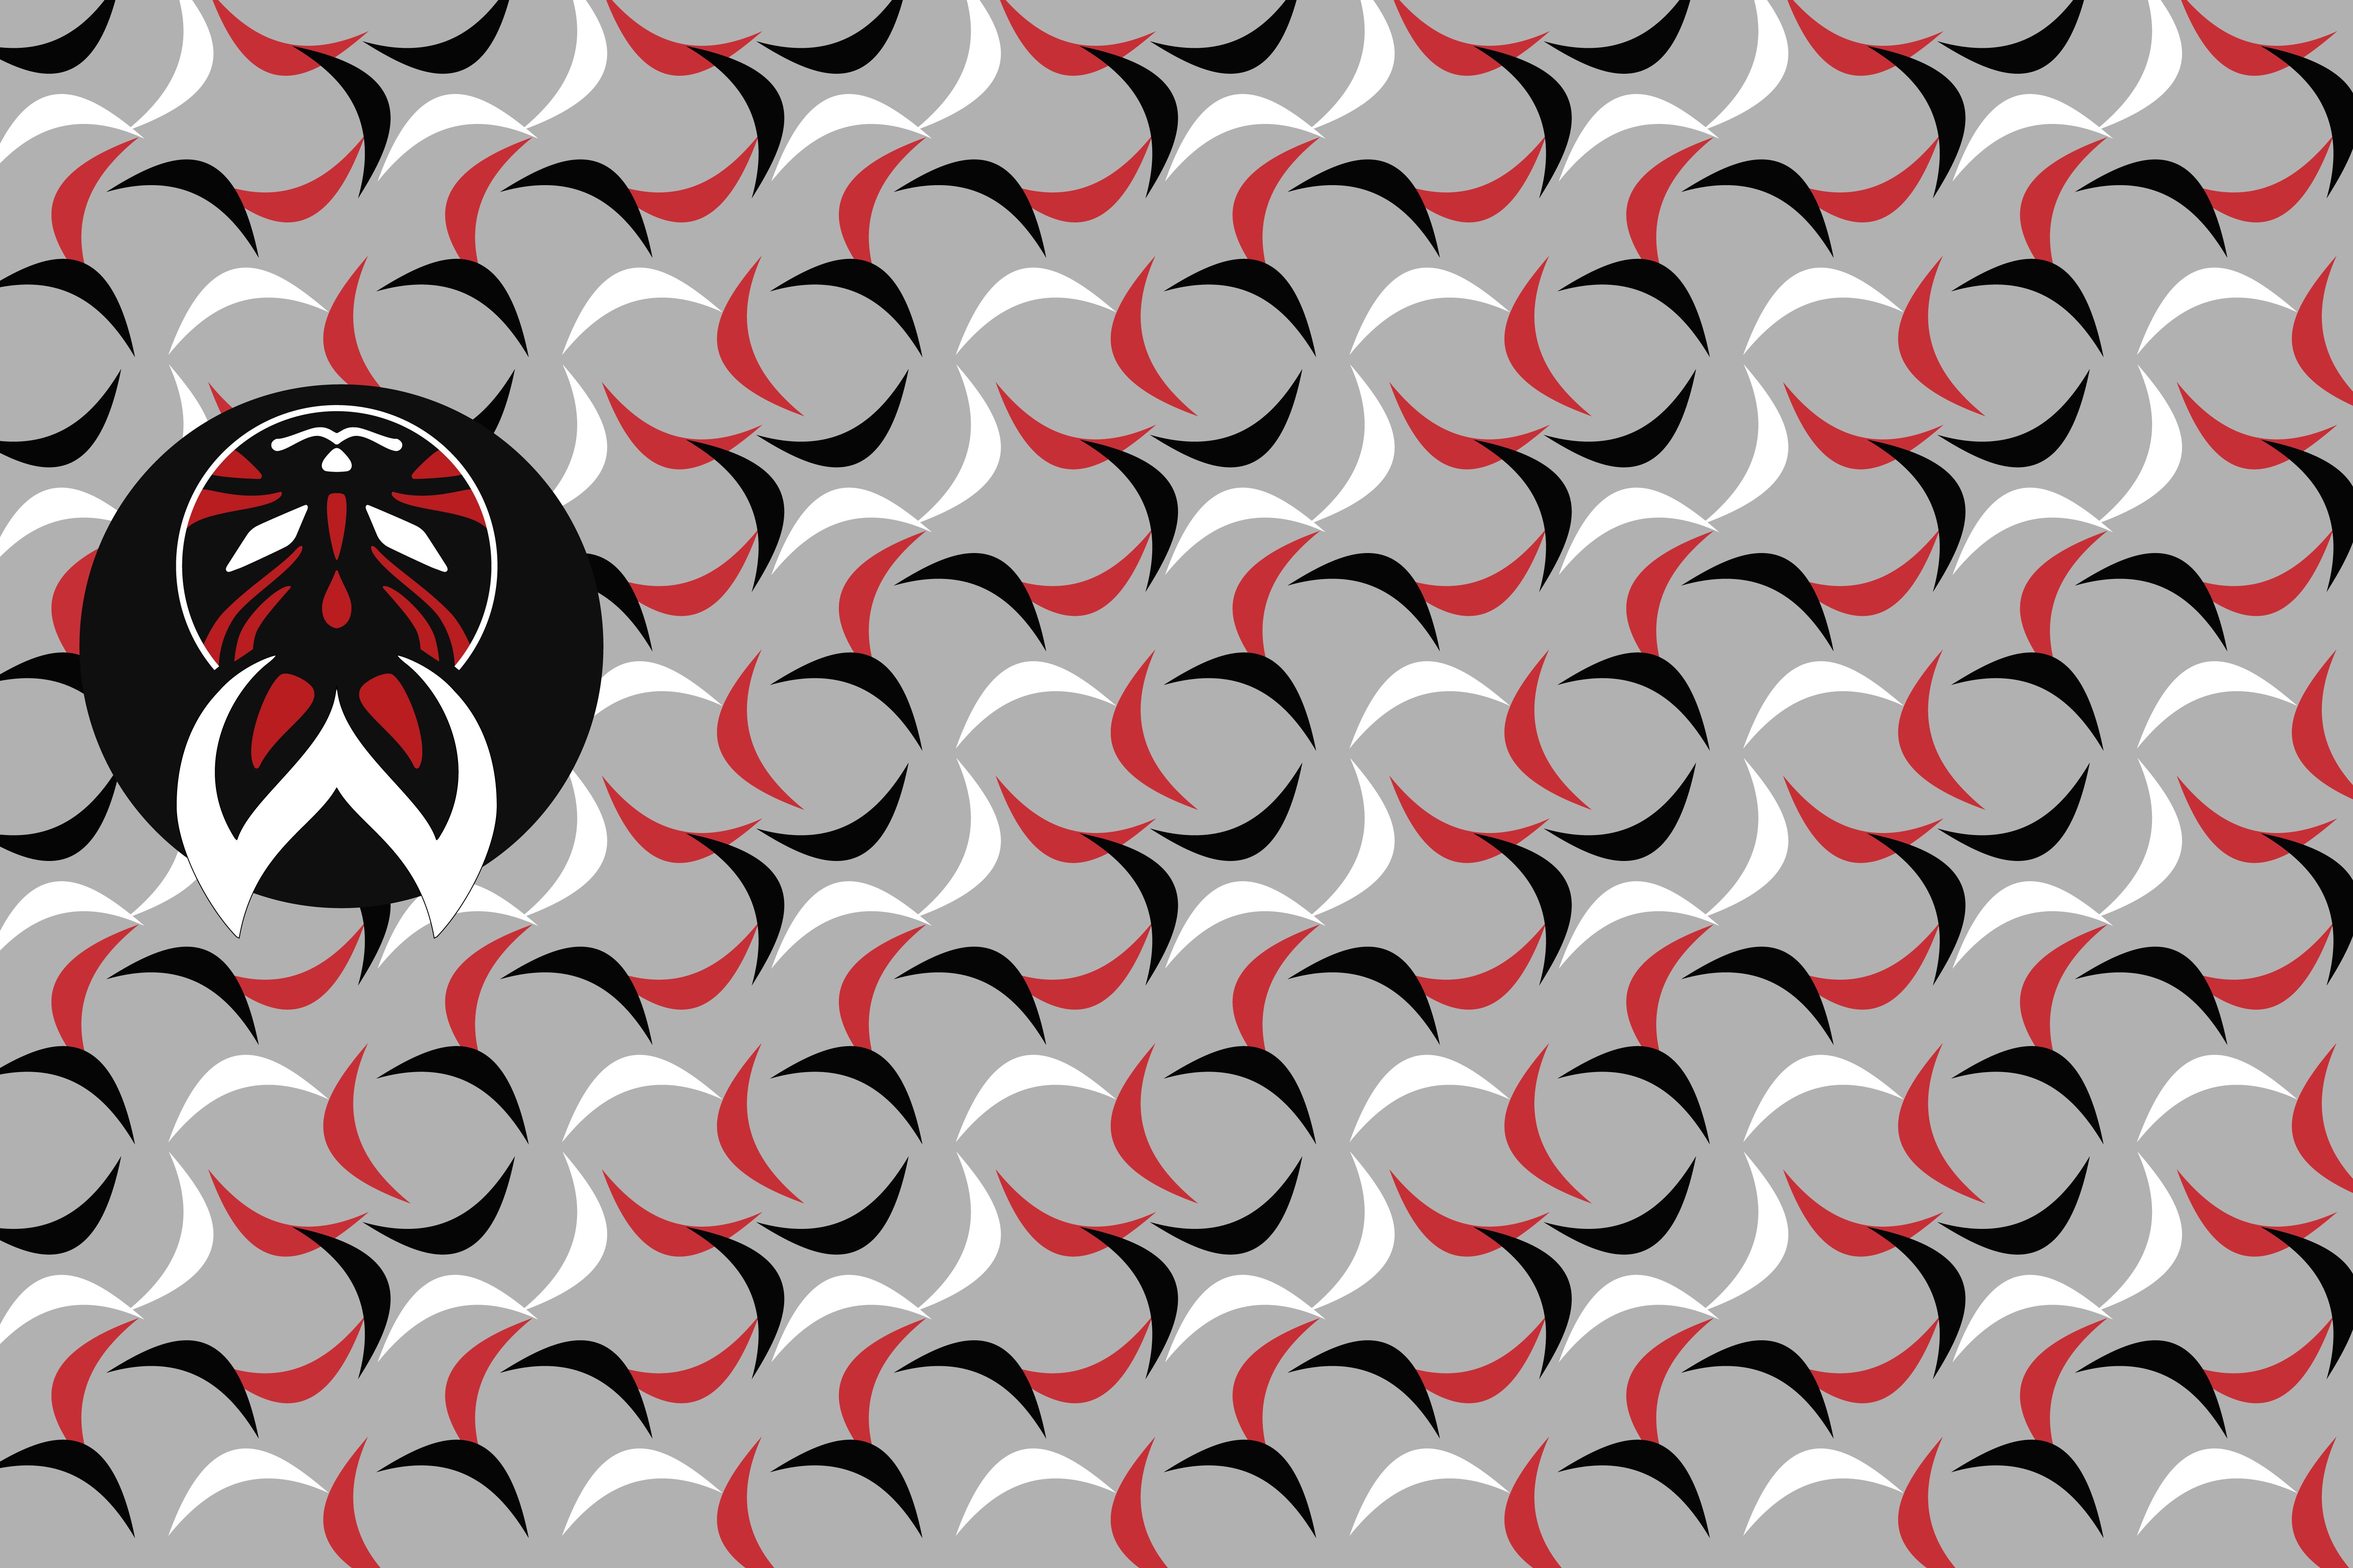
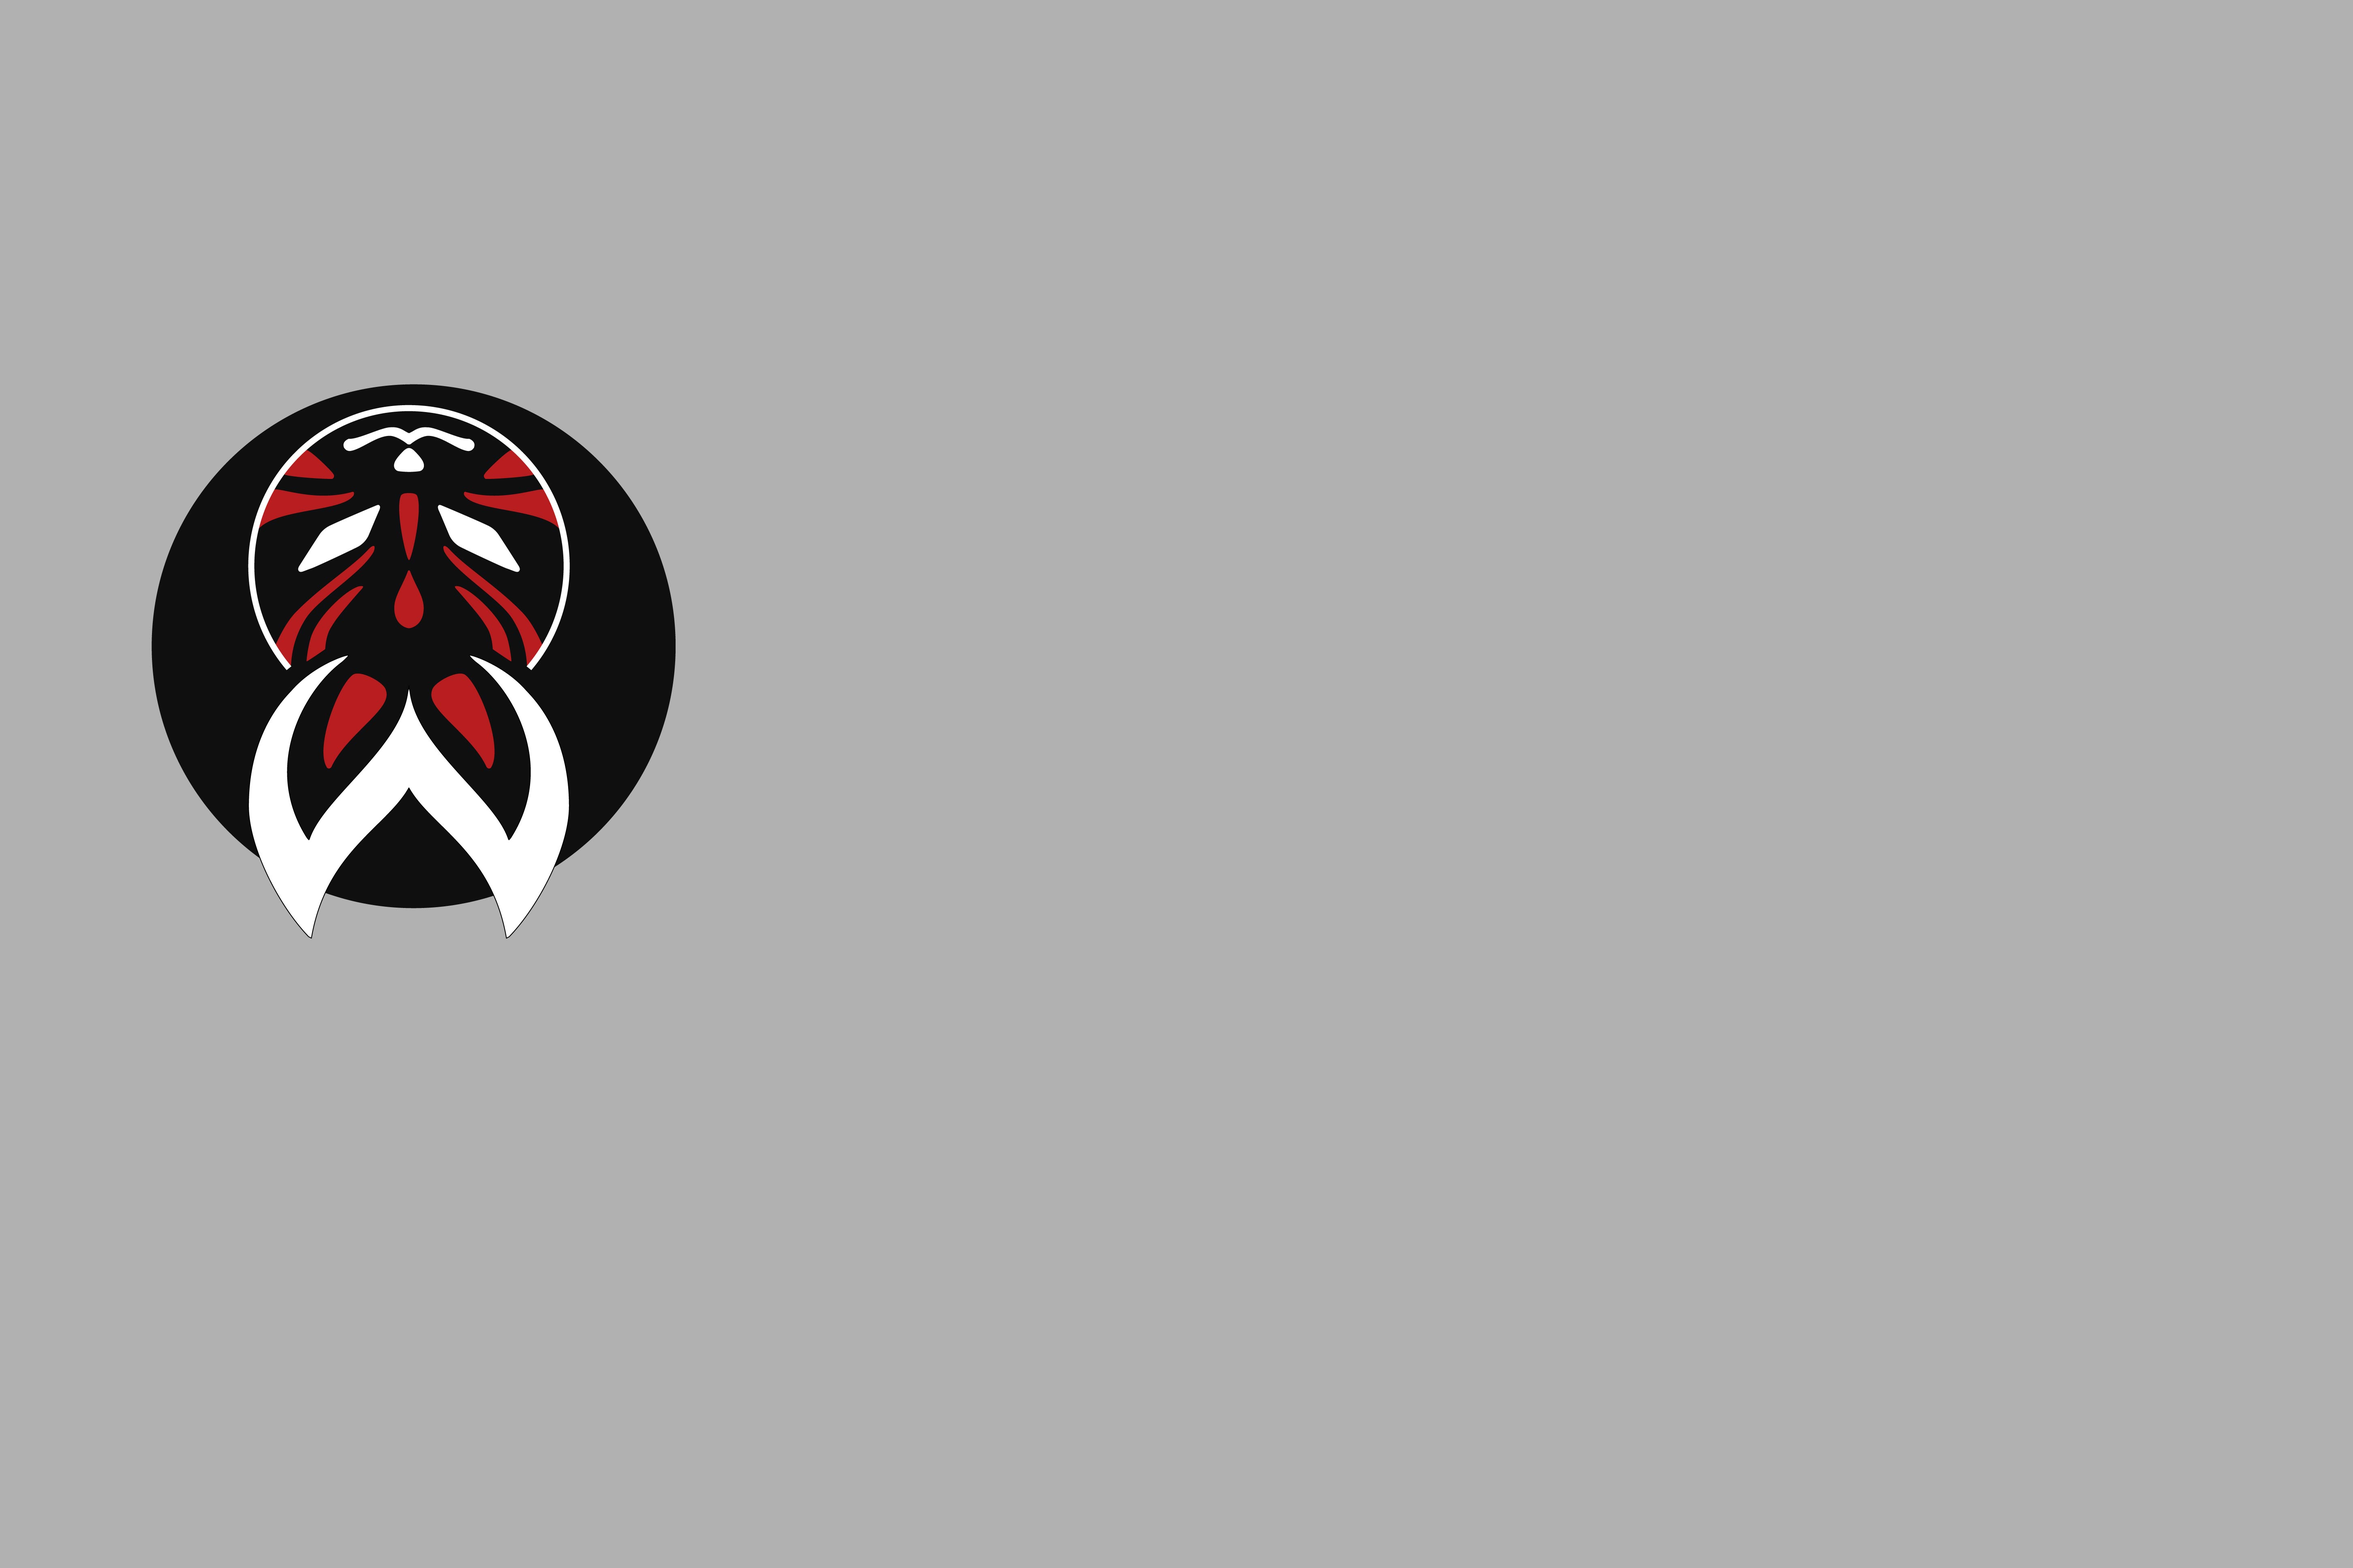
imagen de fondo a gris y eliminar idiomas

diff --git a/index.html b/index.html
@@ -23,20 +23,7 @@
     <link rel="shortcut icon" href="img/favicon.png">
     <!-- Tweaks for older IEs--><!--[if lt IE 9]>
         <script src="https://oss.maxcdn.com/html5shiv/3.7.3/html5shiv.min.js"></script>
-        <script src="https://oss.maxcdn.com/respond/1.4.2/respond.min.js"></script><![endif]-->
-    <header class="header">
-      <nav class="navbar navbar-expand-lg">
-        <div class="container"><a href="" class="navbar-brand link-scroll"></a>
-          <button type="button" data-toggle="collapse" data-target="#navbarSupportedContent" aria-controls="navbarSupportedContent" aria-expanded="false" aria-label="Toggle navigation" class="navbar-toggler navbar-toggler-right"><i class="fa fa-bars"></i></button>
-          <div id="navbarSupportedContent" class="collapse navbar-collapse">
-            <ul class="navbar-nav ml-auto">
-              <li class="nav-item"><a href="index.html" class="nav-link link-scroll">Español</a></li>
-              <li class="nav-item"><a href="index_en.html" class="nav-link link-scroll">English</a></li>
-            </ul>
-          </div>
-        </div>
-      </nav>
-    </header>
+        <script src="https://oss.maxcdn.com/respond/1.4.2/respond.min.js"></script><![endif]-->    
   </head>
   <body>
     <section id="intro" style="background-image: url('img/principal.jpg');" class="intro">       
